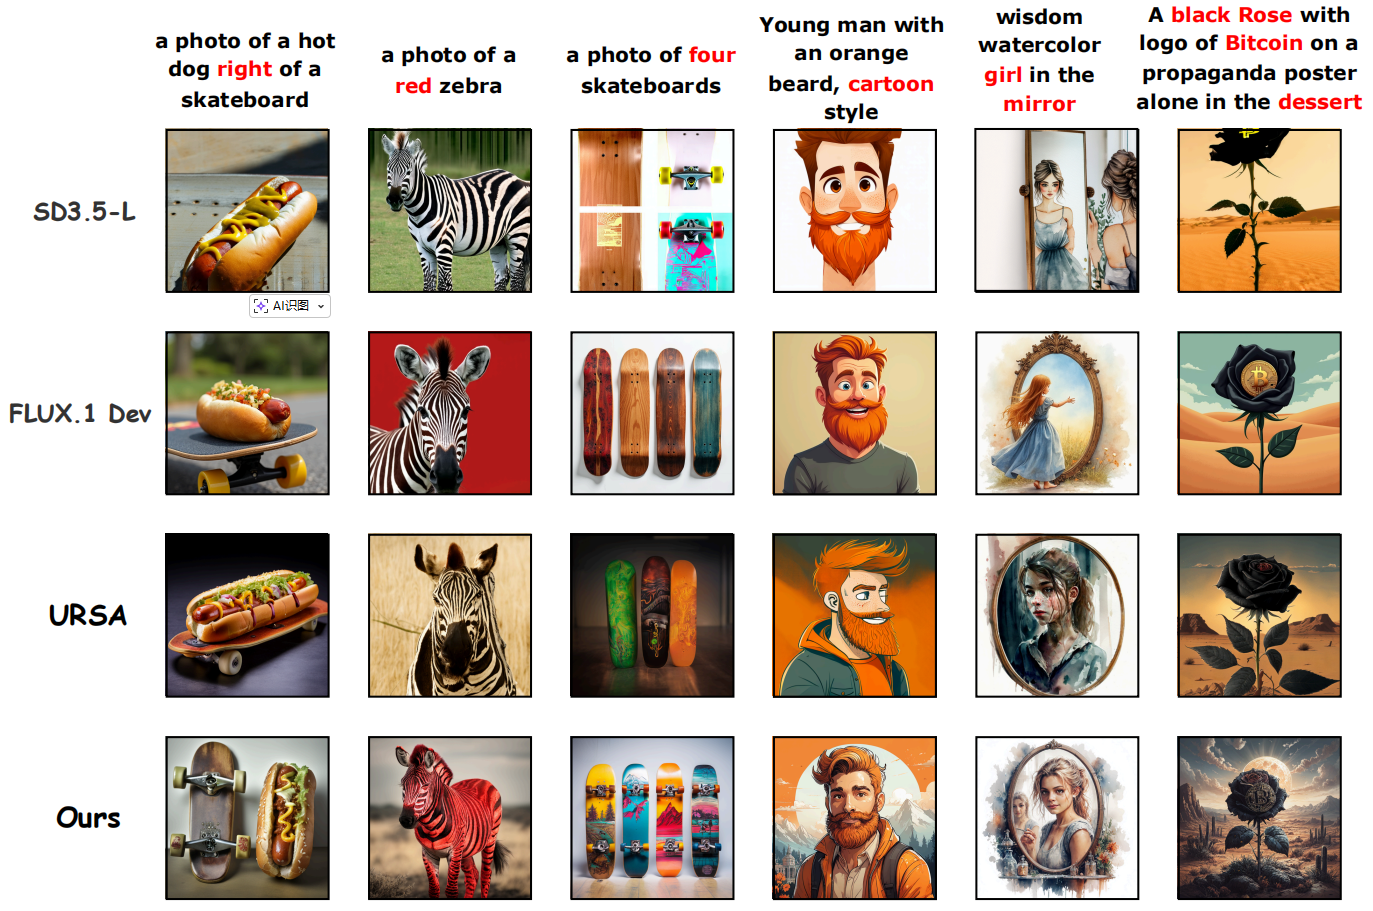
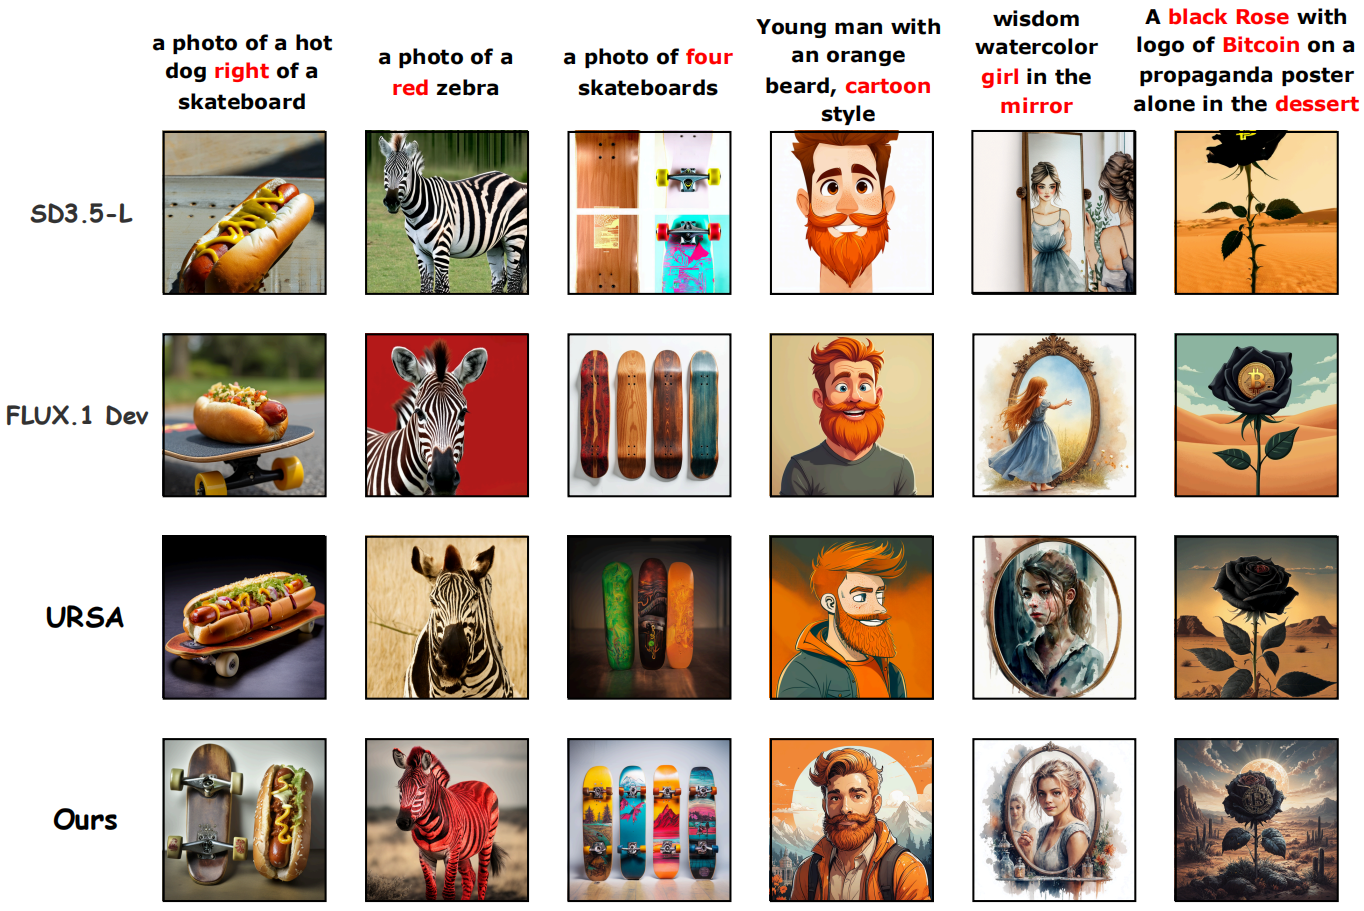
update2

diff --git a/index.html b/index.html
@@ -42,46 +42,6 @@
 </head>
 <body>
 
-<!-- <nav class="navbar" role="navigation" aria-label="main navigation">
-  <div class="navbar-brand">
-    <a role="button" class="navbar-burger" aria-label="menu" aria-expanded="false">
-      <span aria-hidden="true"></span>
-      <span aria-hidden="true"></span>
-      <span aria-hidden="true"></span>
-    </a>
-  </div>
-  <div class="navbar-menu">
-    <div class="navbar-start" style="flex-grow: 1; justify-content: center;">
-      <a class="navbar-item" href="https://keunhong.com">
-      <span class="icon">
-          <i class="fas fa-home"></i>
-      </span>
-      </a>
-
-      <div class="navbar-item has-dropdown is-hoverable">
-        <a class="navbar-link">
-          More Research
-        </a>
-        <div class="navbar-dropdown">
-          <a class="navbar-item" href="https://hypernerf.github.io">
-            HyperNeRF
-          </a>
-          <a class="navbar-item" href="https://nerfies.github.io">
-            Nerfies
-          </a>
-          <a class="navbar-item" href="https://latentfusion.github.io">
-            LatentFusion
-          </a>
-          <a class="navbar-item" href="https://photoshape.github.io">
-            PhotoShape
-          </a>
-        </div>
-      </div>
-    </div>
-
-  </div>
-</nav> -->
-
 
 <section class="hero">
   <div class="hero-body">
@@ -215,7 +175,7 @@
              diffusion forward process better aligns probability paths with the pretraining distribution. 
              Additionally, we introduce two strategies, Reduced-Step and CFG-Free, to further improve training 
              efficiency. <strong>UDM-GRPO</strong>  significantly improves base model performance across multiple T2I tasks. 
-             Notably, GenEval accuracy improves from 69 to 96 and PickScore increases from 20.46 to 23.81,
+             Notably, GenEval accuracy improves from 69% to 96% and PickScore increases from 20.46 to 23.81,
               achieving state-of-the-art performance in both continuous and discrete settings. 
               On the OCR benchmark, accuracy improves from 8% to 57%, further validating the effectiveness
                and generalization ability of our method.
@@ -233,7 +193,7 @@
 
     <!-- Problem Analyse. -->
     <h2 class="title is-3 has-text-centered">Problem Analyse</h2>
-    <div class="content">
+    <div class="content" style="margin-bottom: 2.5rem;">
       <figure>
         <img src="./static/images/system_anlayse.png" alt="Problem analysis figure" style="width: 100%; height: auto;">
       </figure>
@@ -245,7 +205,7 @@
 
     <!-- Visual Results. -->
     <h2 class="title is-3 has-text-centered">Visual Results</h2>
-    <div class="content">
+    <div class="content" style="margin-bottom: 2.5rem;">
       <figure>
         <img src="./static/images/GenEval_result.png" alt="GenEval qualitative comparison results" style="width: 100%; height: auto;">
       </figure>
@@ -253,8 +213,8 @@
         Qualitative Comparison. We evaluate our model against SD3.5-L, Flux.1 Dev and URSA.
       </p>
 
-      <figure>
-        <img src="./static/images/training_process.png" alt="Training process visualization" style="width: 100%; height: auto;">
+      <figure style="text-align: center;">
+        <img src="./static/images/training_process.png" alt="Training process visualization" style="width: 85%; height: auto;">
       </figure>
       <p class="has-text-centered">
         We visualize the generated samples across successive training iterations during the optimization.
@@ -264,7 +224,7 @@
 
 
     <!-- Quantitative Results. -->
-    <h2 class="title is-3 has-text-centered">Quantitative Results</h2>
+    <h2 class="title is-3 has-text-centered" style="margin-top: 1.5rem;">Quantitative Results</h2>
     <div class="content">
       <figure>
         <img src="./static/images/GenEval_quanlity.png" alt="GenEval quantitative comparison results" style="width: 100%; height: auto;">
@@ -273,8 +233,8 @@
         Comparison result on GenEval.
       </p>
 
-      <figure>
-        <img src="./static/images/three_task_quanlity.png" alt="Comparison results on GenEval, PickScore, and OCR" style="width: 100%; height: auto;">
+      <figure style="text-align: center;">
+        <img src="./static/images/three_task_quanlity.png" alt="Comparison results on GenEval, PickScore, and OCR" style="width: 85%; height: auto;">
       </figure>
       <p class="has-text-centered">
         Comparison results on GenEval, PickScore, and OCR.
